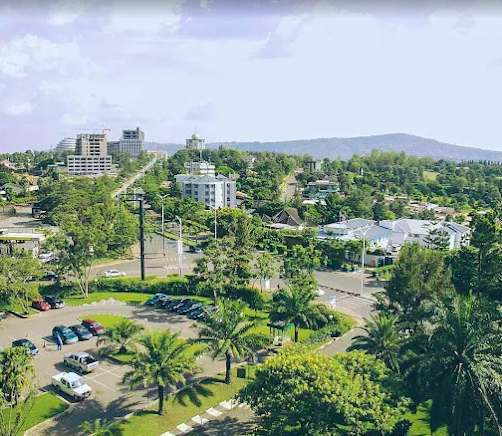
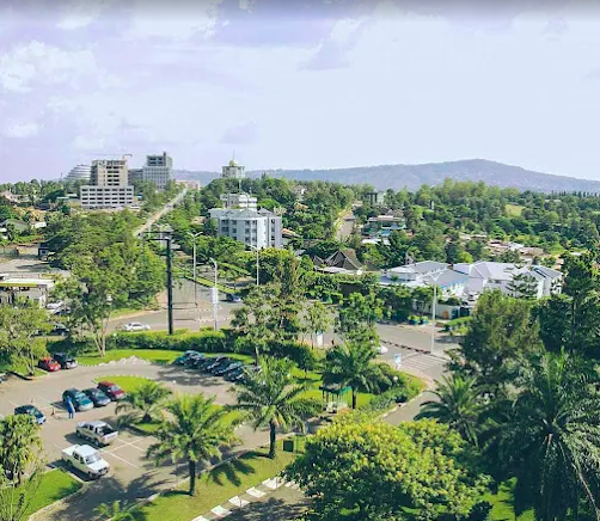
Optimize rwanda.png size and add missing CSS rules for nav, nav a, h1, and main img

diff --git a/styles/styles.css b/styles/styles.css
@@ -1,12 +1,32 @@
+/* Navigation styling */
+nav {
+  background-color: #333;
+  padding: 10px;
+}
+
+nav a {
+  color: #fff;
+  padding: 10px;
+  display: block;
+}
+
+/* Heading styling */
+h1 {
+  color: #222;
+}
+
 /* Limiting main width */
 main {
   max-width: 840px;
 }
 
-/* Specific profile image styling inside main */
+/* Profile image inside main */
 main img {
   width: 150px;
   height: auto;
+  border: 1px solid #ccc;
+  padding: 5px;
+  box-shadow: 0 4px 8px rgba(0, 0, 0, 0.1);
 }
 
 /* Aside section styling */
